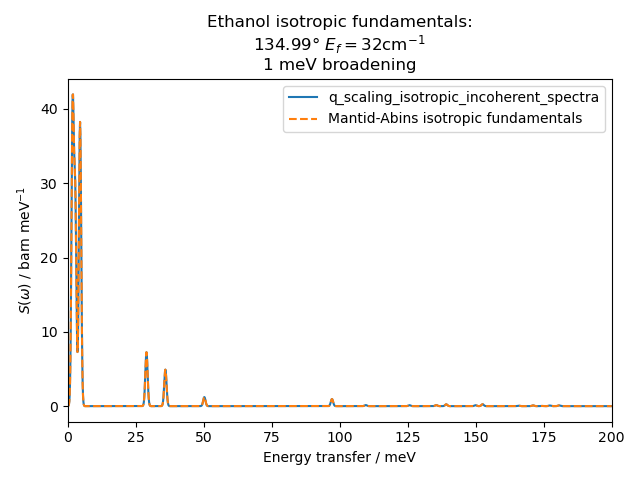
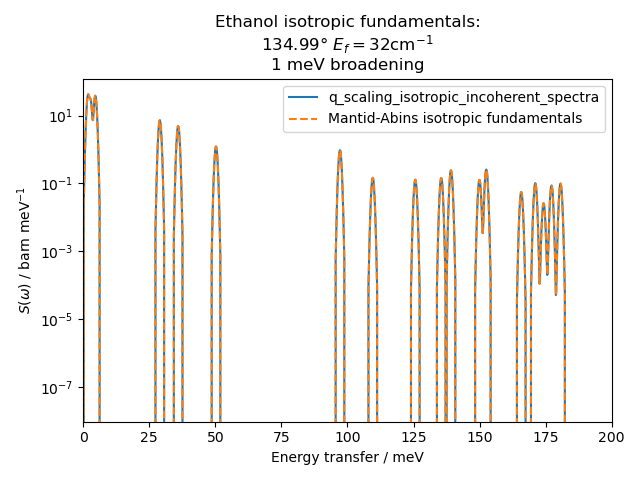
Update validation workflow; use new function, log scale for clarity

Changed region(s): [[0.0625, 0.1875, 0.9688, 0.9688], [0.3125, 0.0312, 0.75, 0.1562]]

diff --git a/dev/validation/workflow/scripts/write_almost_isotropic_fundamentals.py b/dev/validation/workflow/scripts/write_almost_isotropic_fundamentals.py
@@ -1,0 +1,28 @@
+from euphonic import QpointPhononModes, Quantity, Spectrum1D
+import numpy as np
+from snakemake.script import snakemake
+
+from abinslib.displacements import Displacements
+from abinslib.almost_isotropic_incoherent import calculate_almost_isotropic_incoherent_spectra
+
+from abinslib.util import calculate_indirect_q2
+
+modes = QpointPhononModes.from_json_file(snakemake.input[0])
+mantid_data = Spectrum1D.from_json_file(snakemake.input[1])
+temperature = Quantity(float(mantid_data.metadata["temperature"]), "kelvin")
+
+bins = mantid_data.get_bin_edges(restrict_range=False)
+
+displacements = Displacements.from_modes(modes, temperature=temperature)
+dw = displacements.to_atomic_displacements()
+
+q2 = calculate_indirect_q2(
+    modes.frequencies,
+    angle=(134.98885653282196 * np.pi / 180),
+    final_energy=Quantity(32.0, "cm_1").to("hartree"),
+)
+
+spectra = calculate_almost_isotropic_incoherent_spectra(modes, displacements, dw, q2, bins)
+spectrum = spectra.sum()
+
+spectrum.to_json_file(snakemake.output[0])

diff --git a/dev/validation/workflow/scripts/plot_fundamentals.py b/dev/validation/workflow/scripts/plot_fundamentals.py
@@ -17,6 +17,7 @@ ax.set_title(snakemake.params["title"] + f"\n{width:~P} broadening")
 ax.set_xlim(0, 200)
 ax.set_xlabel("Energy transfer / meV")
 ax.set_ylabel("$S(\omega)$ / barn meV$^{-1}$")
+ax.set_yscale("log")
 
 fig.tight_layout()
 fig.savefig(snakemake.output[0])